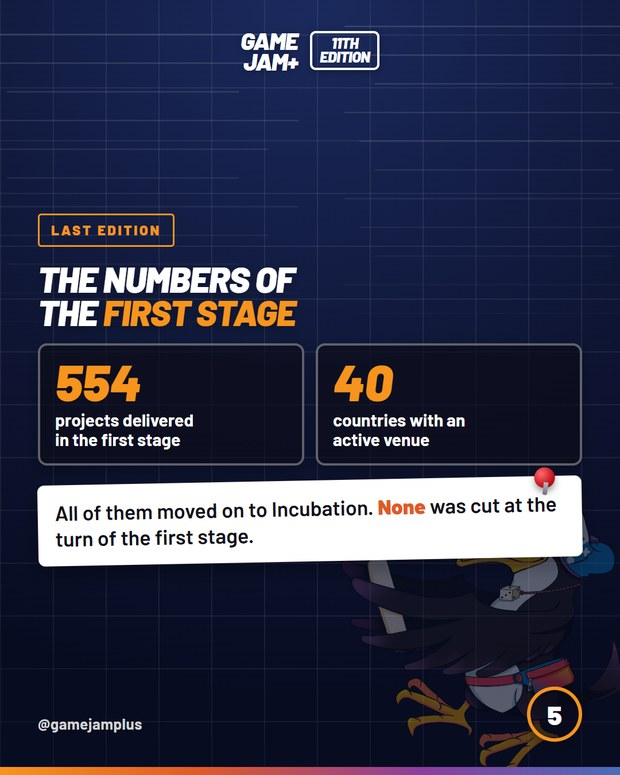
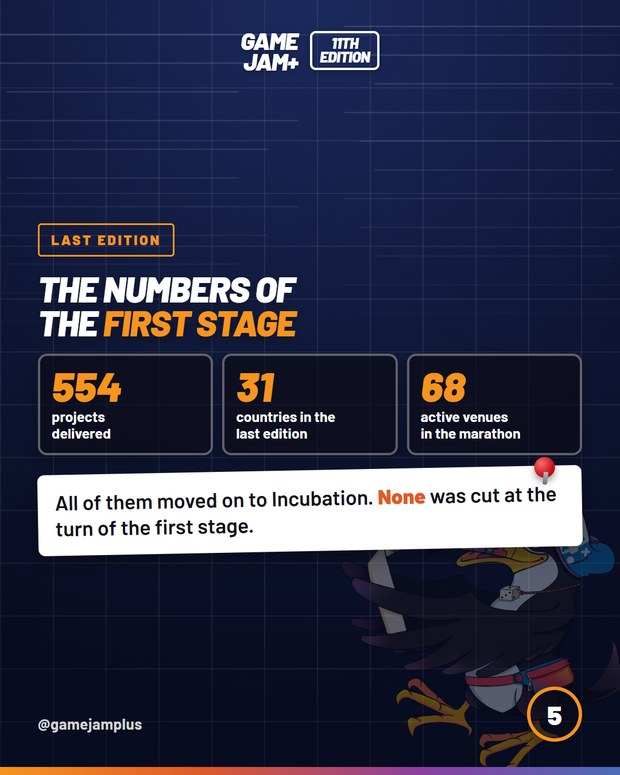
J01: mostra 31 paises e 68 sedes em tres tiles
O dado de alcance da ultima edicao sao duas medidas diferentes, entao o
slide da primeira fase passa a exibir 554 projetos, 31 paises e 68 sedes.
Tres numeros nao cabiam no grid de duas colunas, entao o bloco tiles
ganhou a opcao cols: 3, com tipografia menor (PT e EN).

Changed region(s): [[0.0613, 0.2477, 0.95, 0.7432]]

diff --git a/index.html b/index.html
@@ -73,7 +73,7 @@ dialog img{width:min(92vw,620px);max-height:92dvh;object-fit:contain;border-radi
 <main id="main"><article class="c" data-cat="01-conteudos-gj" data-lang="PT" data-busca="j01 - ninguem e eliminado gj+" id="c0">
   <header><div><span class="tagcat">GJ+</span><span class="taglang PT">PT</span><h2>J01 - Ninguem e eliminado</h2></div>
   <div class="nav"><button aria-label="Anterior" data-d="-1">←</button><button aria-label="Próximo" data-d="1">→</button><span class="cont">7</span></div></header>
-  <div class="strip"><figure><img src="img/01-conteudos-gj-pt-j01-ninguem-e-eliminado/slide_01.jpg?v=7" alt="J01 - Ninguem e eliminado 1" width="620" height="775" loading="lazy" decoding="async"><figcaption>01</figcaption></figure><figure><img src="img/01-conteudos-gj-pt-j01-ninguem-e-eliminado/slide_02.jpg?v=7" alt="J01 - Ninguem e eliminado 2" width="620" height="775" loading="lazy" decoding="async"><figcaption>02</figcaption></figure><figure><img src="img/01-conteudos-gj-pt-j01-ninguem-e-eliminado/slide_03.jpg?v=7" alt="J01 - Ninguem e eliminado 3" width="620" height="775" loading="lazy" decoding="async"><figcaption>03</figcaption></figure><figure><img src="img/01-conteudos-gj-pt-j01-ninguem-e-eliminado/slide_04.jpg?v=7" alt="J01 - Ninguem e eliminado 4" width="620" height="775" loading="lazy" decoding="async"><figcaption>04</figcaption></figure><figure><img src="img/01-conteudos-gj-pt-j01-ninguem-e-eliminado/slide_05.jpg?v=7" alt="J01 - Ninguem e eliminado 5" width="620" height="775" loading="lazy" decoding="async"><figcaption>05</figcaption></figure><figure><img src="img/01-conteudos-gj-pt-j01-ninguem-e-eliminado/slide_06.jpg?v=7" alt="J01 - Ninguem e eliminado 6" width="620" height="775" loading="lazy" decoding="async"><figcaption>06</figcaption></figure><figure><img src="img/01-conteudos-gj-pt-j01-ninguem-e-eliminado/slide_07.jpg?v=7" alt="J01 - Ninguem e eliminado 7" width="620" height="775" loading="lazy" decoding="async"><figcaption>07</figcaption></figure></div></article>
+  <div class="strip"><figure><img src="img/01-conteudos-gj-pt-j01-ninguem-e-eliminado/slide_01.jpg?v=8" alt="J01 - Ninguem e eliminado 1" width="620" height="775" loading="lazy" decoding="async"><figcaption>01</figcaption></figure><figure><img src="img/01-conteudos-gj-pt-j01-ninguem-e-eliminado/slide_02.jpg?v=8" alt="J01 - Ninguem e eliminado 2" width="620" height="775" loading="lazy" decoding="async"><figcaption>02</figcaption></figure><figure><img src="img/01-conteudos-gj-pt-j01-ninguem-e-eliminado/slide_03.jpg?v=8" alt="J01 - Ninguem e eliminado 3" width="620" height="775" loading="lazy" decoding="async"><figcaption>03</figcaption></figure><figure><img src="img/01-conteudos-gj-pt-j01-ninguem-e-eliminado/slide_04.jpg?v=8" alt="J01 - Ninguem e eliminado 4" width="620" height="775" loading="lazy" decoding="async"><figcaption>04</figcaption></figure><figure><img src="img/01-conteudos-gj-pt-j01-ninguem-e-eliminado/slide_05.jpg?v=8" alt="J01 - Ninguem e eliminado 5" width="620" height="775" loading="lazy" decoding="async"><figcaption>05</figcaption></figure><figure><img src="img/01-conteudos-gj-pt-j01-ninguem-e-eliminado/slide_06.jpg?v=8" alt="J01 - Ninguem e eliminado 6" width="620" height="775" loading="lazy" decoding="async"><figcaption>06</figcaption></figure><figure><img src="img/01-conteudos-gj-pt-j01-ninguem-e-eliminado/slide_07.jpg?v=8" alt="J01 - Ninguem e eliminado 7" width="620" height="775" loading="lazy" decoding="async"><figcaption>07</figcaption></figure></div></article>
 <article class="c" data-cat="01-conteudos-gj" data-lang="PT" data-busca="j02 - voce nao precisa saber programar gj+" id="c1">
   <header><div><span class="tagcat">GJ+</span><span class="taglang PT">PT</span><h2>J02 - Voce nao precisa saber programar</h2></div>
   <div class="nav"><button aria-label="Anterior" data-d="-1">←</button><button aria-label="Próximo" data-d="1">→</button><span class="cont">6</span></div></header>
@@ -197,7 +197,7 @@ dialog img{width:min(92vw,620px);max-height:92dvh;object-fit:contain;border-radi
 <article class="c" data-cat="01-conteudos-gj" data-lang="EN" data-busca="j01 - nobody is eliminated in the first stage gj+" id="c31">
   <header><div><span class="tagcat">GJ+</span><span class="taglang EN">EN</span><h2>J01 - Nobody is eliminated in the first stage</h2></div>
   <div class="nav"><button aria-label="Anterior" data-d="-1">←</button><button aria-label="Próximo" data-d="1">→</button><span class="cont">7</span></div></header>
-  <div class="strip"><figure><img src="img/01-conteudos-gj-en-j01-nobody-is-eliminated-in-the-first-stage/slide_01.jpg?v=7" alt="J01 - Nobody is eliminated in the first stage 1" width="620" height="775" loading="lazy" decoding="async"><figcaption>01</figcaption></figure><figure><img src="img/01-conteudos-gj-en-j01-nobody-is-eliminated-in-the-first-stage/slide_02.jpg?v=7" alt="J01 - Nobody is eliminated in the first stage 2" width="620" height="775" loading="lazy" decoding="async"><figcaption>02</figcaption></figure><figure><img src="img/01-conteudos-gj-en-j01-nobody-is-eliminated-in-the-first-stage/slide_03.jpg?v=7" alt="J01 - Nobody is eliminated in the first stage 3" width="620" height="775" loading="lazy" decoding="async"><figcaption>03</figcaption></figure><figure><img src="img/01-conteudos-gj-en-j01-nobody-is-eliminated-in-the-first-stage/slide_04.jpg?v=7" alt="J01 - Nobody is eliminated in the first stage 4" width="620" height="775" loading="lazy" decoding="async"><figcaption>04</figcaption></figure><figure><img src="img/01-conteudos-gj-en-j01-nobody-is-eliminated-in-the-first-stage/slide_05.jpg?v=7" alt="J01 - Nobody is eliminated in the first stage 5" width="620" height="775" loading="lazy" decoding="async"><figcaption>05</figcaption></figure><figure><img src="img/01-conteudos-gj-en-j01-nobody-is-eliminated-in-the-first-stage/slide_06.jpg?v=7" alt="J01 - Nobody is eliminated in the first stage 6" width="620" height="775" loading="lazy" decoding="async"><figcaption>06</figcaption></figure><figure><img src="img/01-conteudos-gj-en-j01-nobody-is-eliminated-in-the-first-stage/slide_07.jpg?v=7" alt="J01 - Nobody is eliminated in the first stage 7" width="620" height="775" loading="lazy" decoding="async"><figcaption>07</figcaption></figure></div></article>
+  <div class="strip"><figure><img src="img/01-conteudos-gj-en-j01-nobody-is-eliminated-in-the-first-stage/slide_01.jpg?v=8" alt="J01 - Nobody is eliminated in the first stage 1" width="620" height="775" loading="lazy" decoding="async"><figcaption>01</figcaption></figure><figure><img src="img/01-conteudos-gj-en-j01-nobody-is-eliminated-in-the-first-stage/slide_02.jpg?v=8" alt="J01 - Nobody is eliminated in the first stage 2" width="620" height="775" loading="lazy" decoding="async"><figcaption>02</figcaption></figure><figure><img src="img/01-conteudos-gj-en-j01-nobody-is-eliminated-in-the-first-stage/slide_03.jpg?v=8" alt="J01 - Nobody is eliminated in the first stage 3" width="620" height="775" loading="lazy" decoding="async"><figcaption>03</figcaption></figure><figure><img src="img/01-conteudos-gj-en-j01-nobody-is-eliminated-in-the-first-stage/slide_04.jpg?v=8" alt="J01 - Nobody is eliminated in the first stage 4" width="620" height="775" loading="lazy" decoding="async"><figcaption>04</figcaption></figure><figure><img src="img/01-conteudos-gj-en-j01-nobody-is-eliminated-in-the-first-stage/slide_05.jpg?v=8" alt="J01 - Nobody is eliminated in the first stage 5" width="620" height="775" loading="lazy" decoding="async"><figcaption>05</figcaption></figure><figure><img src="img/01-conteudos-gj-en-j01-nobody-is-eliminated-in-the-first-stage/slide_06.jpg?v=8" alt="J01 - Nobody is eliminated in the first stage 6" width="620" height="775" loading="lazy" decoding="async"><figcaption>06</figcaption></figure><figure><img src="img/01-conteudos-gj-en-j01-nobody-is-eliminated-in-the-first-stage/slide_07.jpg?v=8" alt="J01 - Nobody is eliminated in the first stage 7" width="620" height="775" loading="lazy" decoding="async"><figcaption>07</figcaption></figure></div></article>
 <article class="c" data-cat="01-conteudos-gj" data-lang="EN" data-busca="j02 - you do not need to know how to code gj+" id="c32">
   <header><div><span class="tagcat">GJ+</span><span class="taglang EN">EN</span><h2>J02 - You do not need to know how to code</h2></div>
   <div class="nav"><button aria-label="Anterior" data-d="-1">←</button><button aria-label="Próximo" data-d="1">→</button><span class="cont">6</span></div></header>
